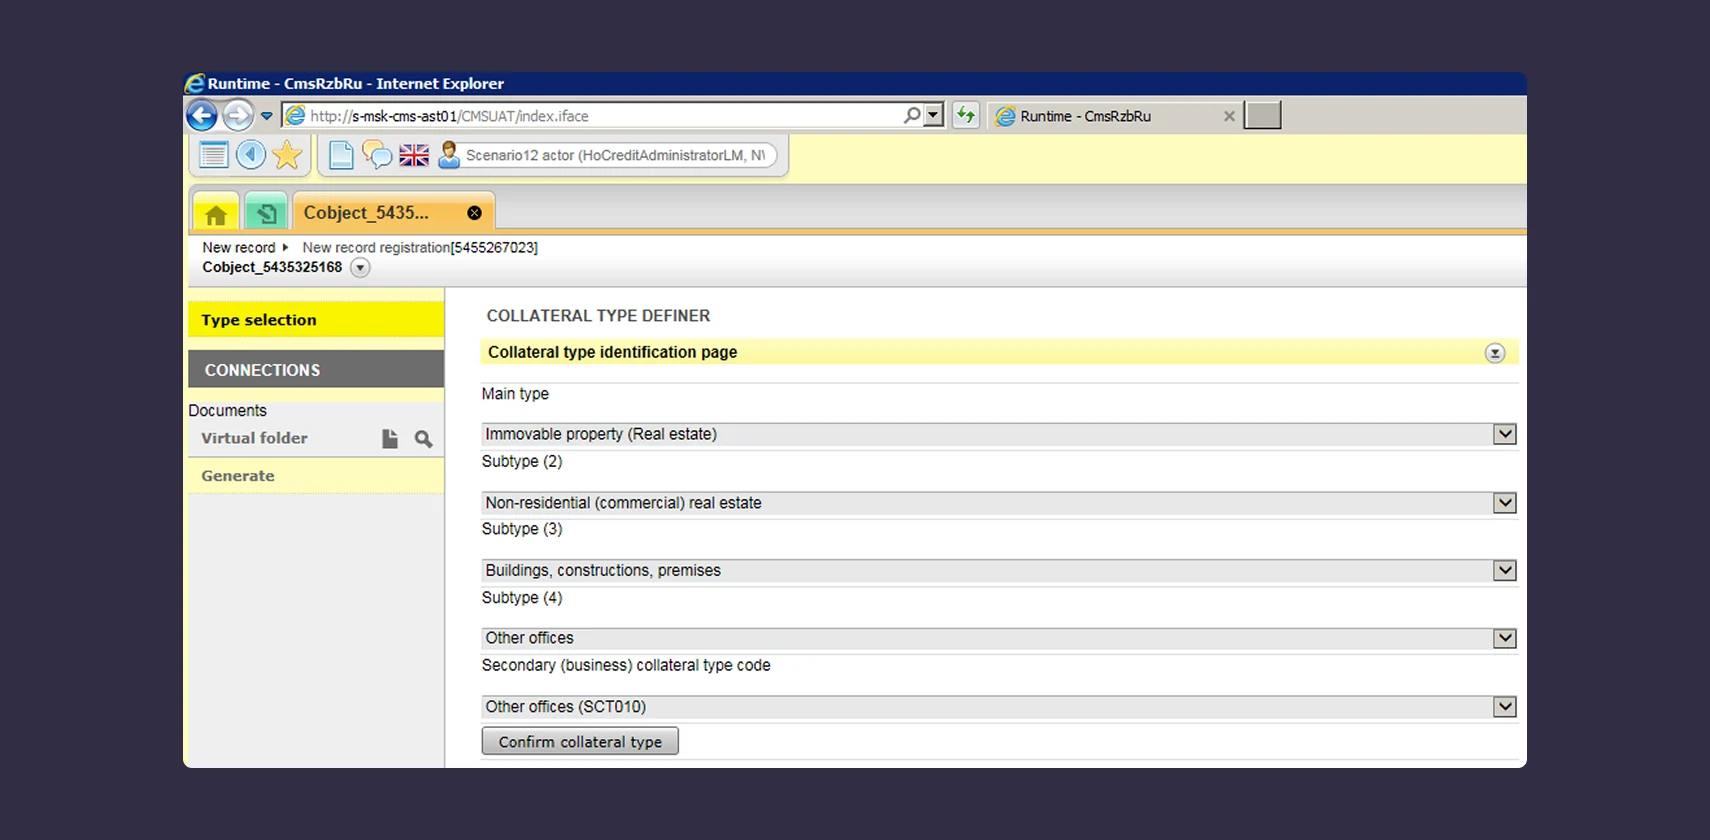
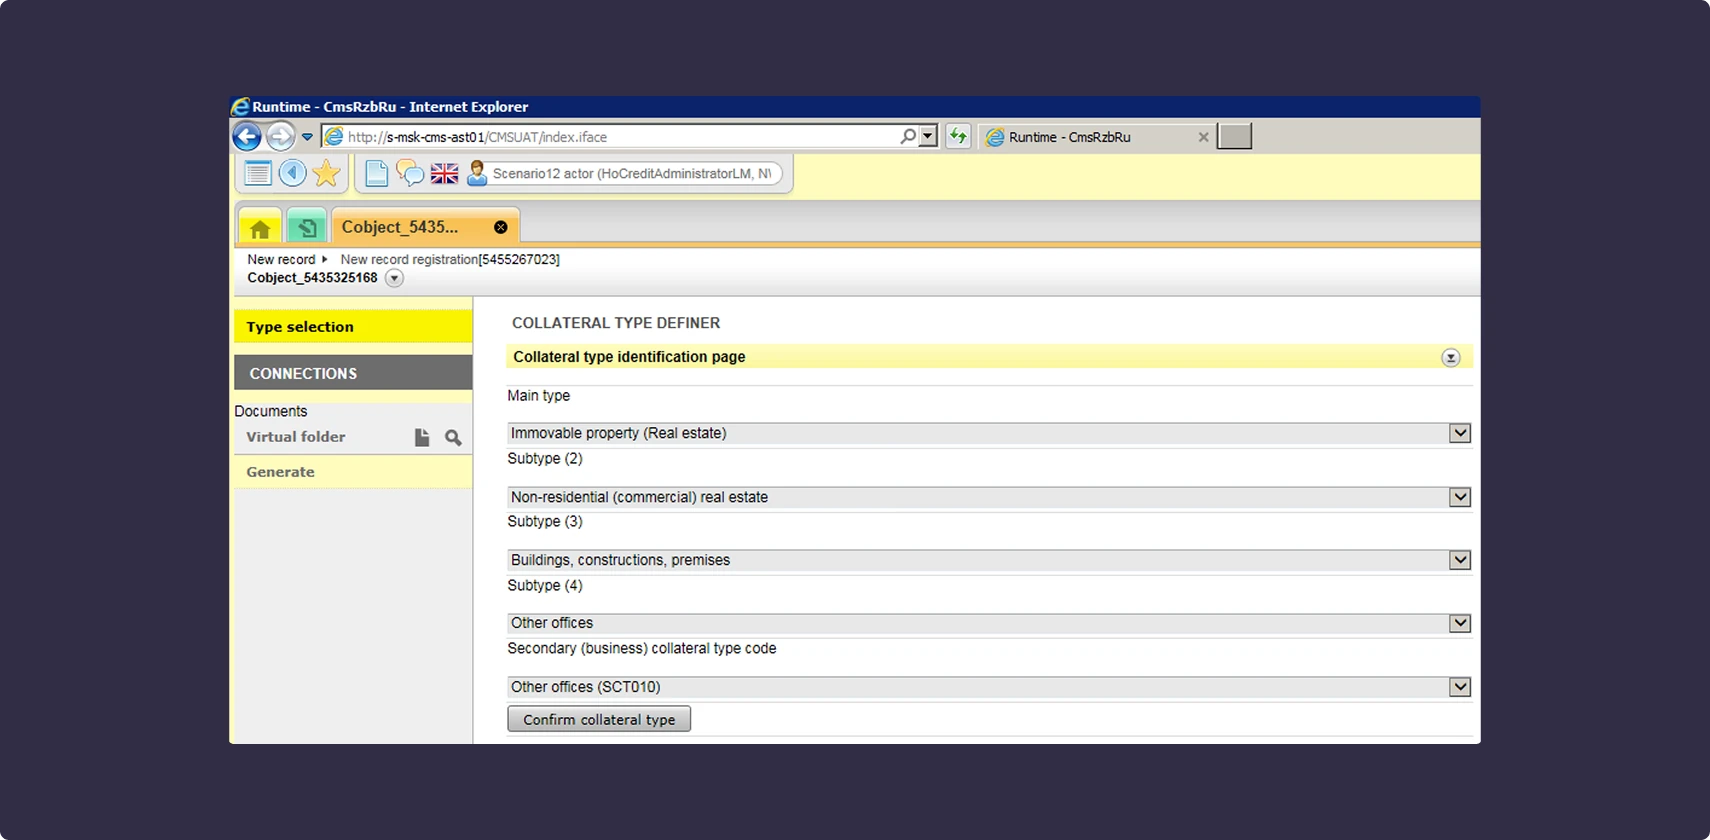
Legacy demo: new images from the legasy-demo component
- T-bank: new AI scene (snowy call-centre office) and the original legacy
  screen as the real-screen state
- MA.direct: updated AI scene and legacy screen
- Raiffeisen: legacy screen now framed on the purple background, like the others

Claude-Session: https://claude.ai/code/session_01SyK1mkk32etF4Hxsy5th1o

Changed region(s): [[0.093, 0.0619, 0.8988, 0.9286], [0.9918, 0.9905, 1.0, 1.0]]

diff --git a/t-bank/index.html b/t-bank/index.html
@@ -87,10 +87,10 @@
           <span class="image-loader image-loader--spinner toggle-media__frame">
             <img class="toggle-media__image toggle-media__image--on" src="../assets/img/t-bank/legacy-ai-scene-1140.webp" srcset="../assets/img/t-bank/legacy-ai-scene-1140.webp 1140w, ../assets/img/t-bank/legacy-ai-scene-2280.webp 2280w"
                  sizes="(max-width: 767.98px) calc(100vw - 48px), min(1140px, calc(100vw - 280px))"
-                 width="1140" height="560" alt="Before, as an AI-generated scene: the legacy Siebel verification screen on a widescreen monitor at a call-centre desk at night, with rain on the office windows, a headset, a keyboard, a mug of tea and a desk lamp." loading="lazy" decoding="async">
+                 width="1140" height="560" alt="Before, as an AI-generated scene: the legacy Siebel verification screen, in English with test data, on a monitor in a call-centre office on a snowy day, with a desk phone, a headset, a keyboard, coffee cups and sticky notes, and a colleague in a headset in the background." loading="lazy" decoding="async">
             <img class="toggle-media__image toggle-media__image--off" src="../assets/img/t-bank/legacy-ui-1140.webp" srcset="../assets/img/t-bank/legacy-ui-1140.webp 1140w, ../assets/img/t-bank/legacy-ui-1710.webp 1710w"
                  sizes="(max-width: 767.98px) calc(100vw - 48px), min(1140px, calc(100vw - 280px))"
-                 width="1140" height="560" alt="Before: the legacy Oracle Siebel verification screen in Chrome, shown with fictional test data. A company card for LLC Tolyatti Romashka Delta-M with loan details, a list of verification steps, contacts, roles and company activities, and a panel of customer chat dialogs on the right." loading="lazy" decoding="async" aria-hidden="true">
+                 width="1140" height="560" alt="Before: the original legacy screen as shared on a video call — Oracle Siebel verification in Chrome with the Tinkoff dialogs panel beside it, customer data blurred and video tiles of the call on the right. The interface is in Russian." loading="lazy" decoding="async" aria-hidden="true">
           </span>
           <div class="toggle-media__control" data-theme="olive-night">
             <button class="switch-and-text toggle-media__switch" type="button" role="switch" aria-checked="true" dir="rtl"
